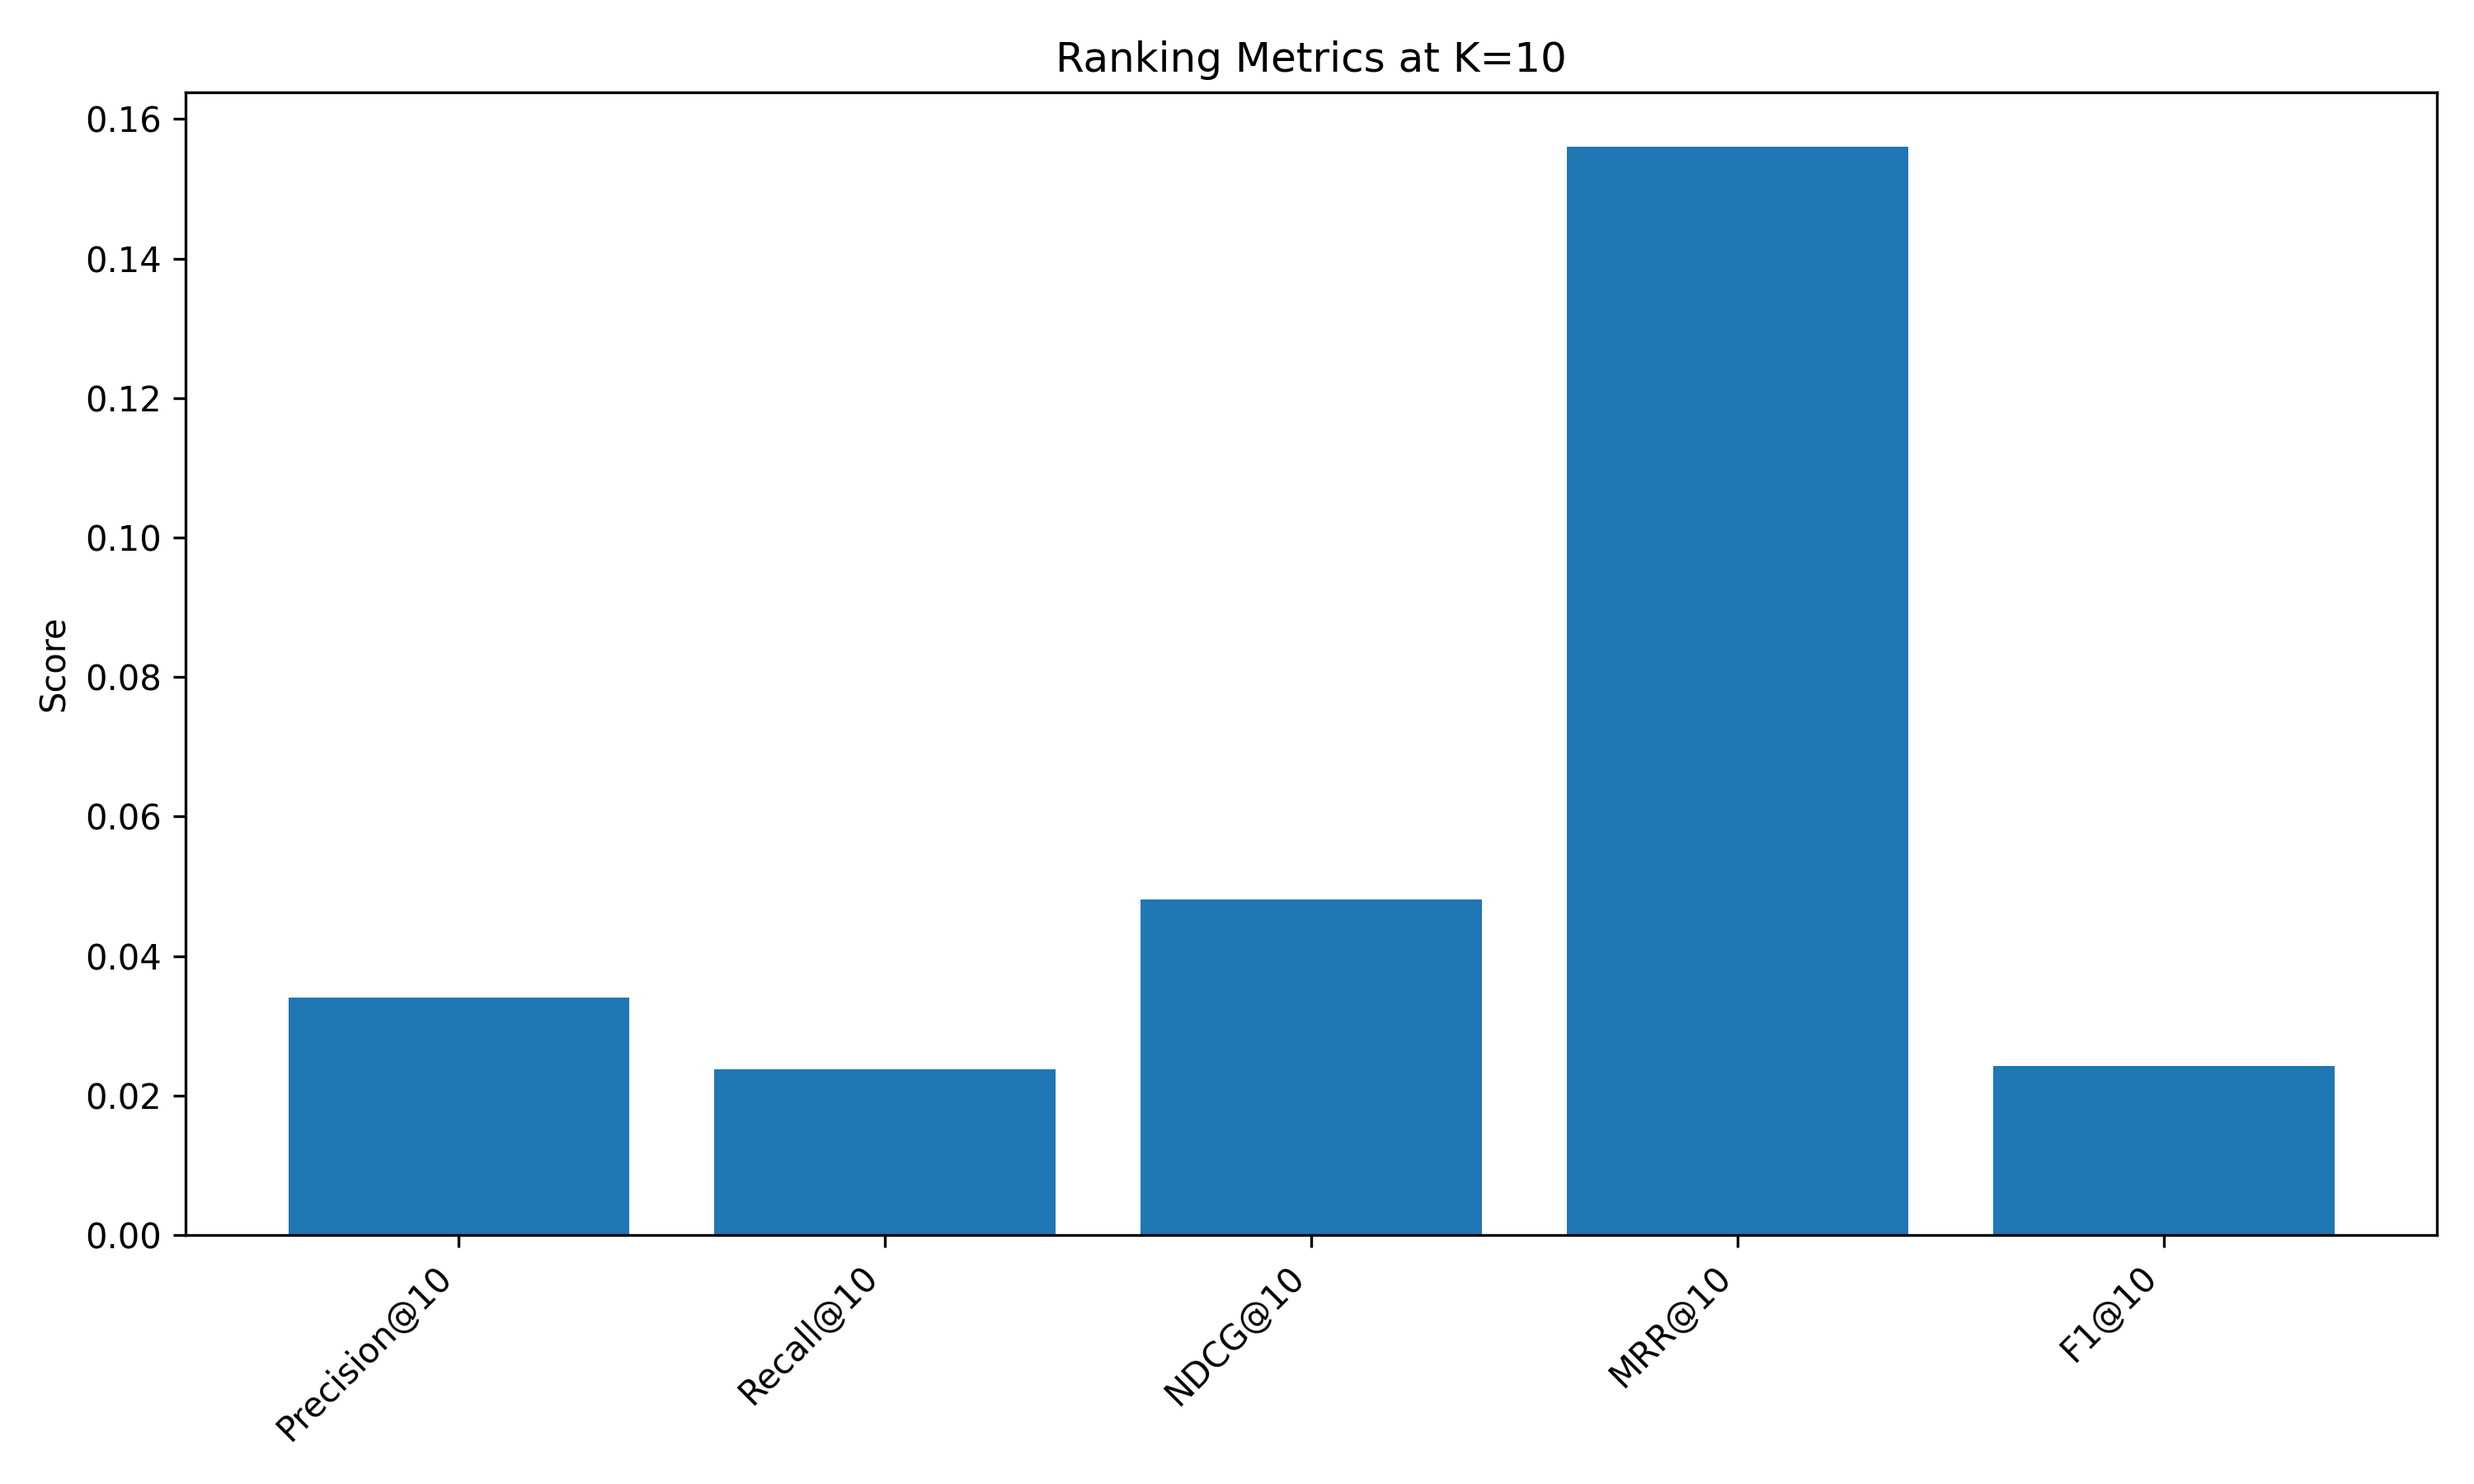
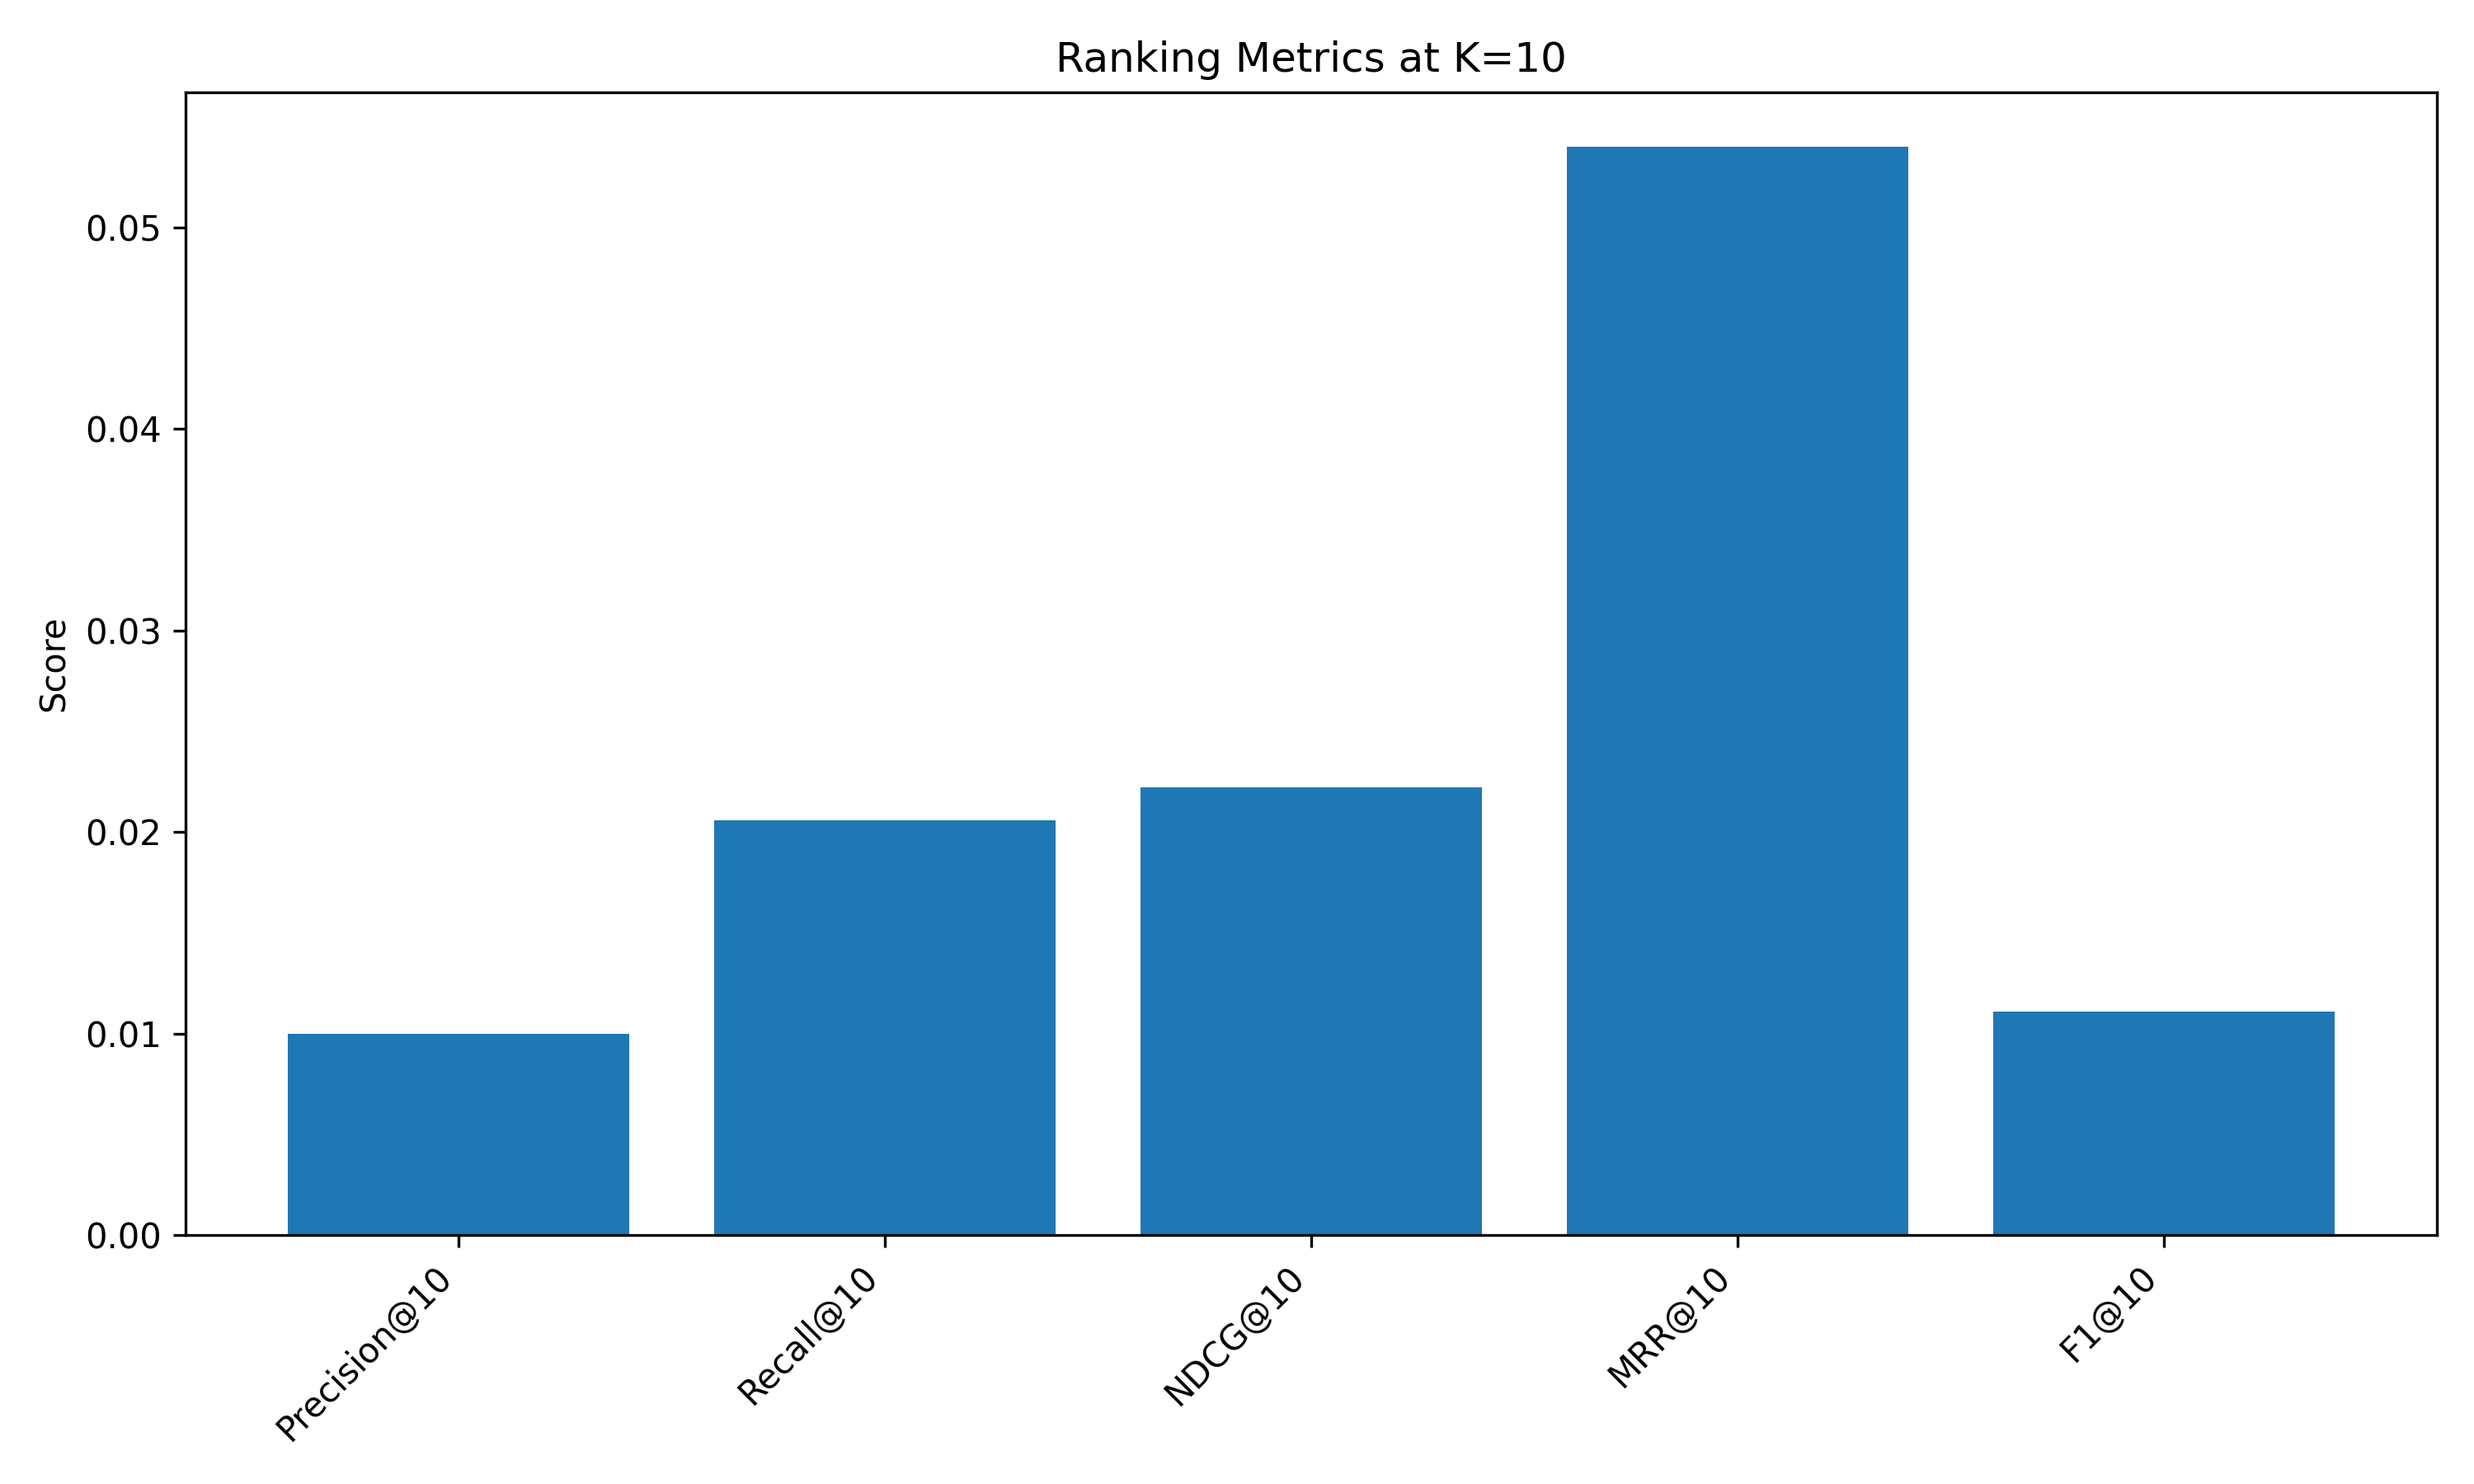
Run MovieLens 1M experiment

diff --git a/src/config.py b/src/config.py
@@ -19,39 +19,50 @@ DATASET_CONFIGS = {
         "baseline_weight": 0.30,
         "cf_weight": 0.35,
         "mf_weight": 0.35,
+        "rating_sample_size": 1000,
+        "ranking_sample_users": 50,
+        "candidate_sample_size": 300,
     },
+
     "1M": {
         "name": "MovieLens-1M",
         "data_path": str(PROJECT_ROOT / "data" / "processed" / "ratings_1m.csv"),
-        "k_neighbors": 25,
+        "k_neighbors": 20,
         "n_factors": 25,
-        "max_epochs": 15,
+        "max_epochs": 10,
         "learning_rate": 0.005,
         "reg_lambda": 0.02,
         "test_size": 0.2,
         "random_state": 42,
         "relevance_threshold": 4.0,
         "k_values": [5, 10, 20],
-        "cache_size": 200000,
+        "cache_size": 300000,
         "baseline_weight": 0.30,
-        "cf_weight": 0.35,
-        "mf_weight": 0.35,
+        "cf_weight": 0.30,
+        "mf_weight": 0.40,
+        "rating_sample_size": 2000,
+        "ranking_sample_users": 50,
+        "candidate_sample_size": 250,
     },
+
     "10M": {
         "name": "MovieLens-10M",
         "data_path": str(PROJECT_ROOT / "data" / "processed" / "ratings_10m.csv"),
-        "k_neighbors": 30,
+        "k_neighbors": 15,
         "n_factors": 25,
-        "max_epochs": 15,
+        "max_epochs": 5,
         "learning_rate": 0.005,
         "reg_lambda": 0.02,
         "test_size": 0.2,
         "random_state": 42,
         "relevance_threshold": 4.0,
         "k_values": [5, 10, 20],
-        "cache_size": 200000,
+        "cache_size": 500000,
         "baseline_weight": 0.30,
-        "cf_weight": 0.35,
-        "mf_weight": 0.35,
+        "cf_weight": 0.25,
+        "mf_weight": 0.45,
+        "rating_sample_size": 3000,
+        "ranking_sample_users": 30,
+        "candidate_sample_size": 200,
     },
 }

diff --git a/main.py b/main.py
@@ -1,3 +1,5 @@
+import argparse
+
 from src.config import DATASET_CONFIGS
 from src.data_loader import load_thesis_data
 from src.evaluation import OptimizedLightningEvaluator
@@ -6,13 +8,32 @@ from src.utils import save_experiment_results
 from src.visualization import save_experiment_charts
 
 
+def parse_args():
+    parser = argparse.ArgumentParser(
+        description="Run the hybrid CASM-CF + Matrix Factorization recommender."
+    )
+
+    parser.add_argument(
+        "--dataset",
+        type=str,
+        default="100K",
+        choices=["100K", "1M", "10M"],
+        help="Dataset version to use: 100K, 1M, or 10M.",
+    )
+
+    return parser.parse_args()
+
+
 def main():
-    config = DATASET_CONFIGS["100K"]
+    args = parse_args()
+
+    config = DATASET_CONFIGS[args.dataset]
     model_name = "Hybrid CASM-CF + Matrix Factorization"
 
     print("=" * 60)
     print("Movie Recommender System - Hybrid Thesis Portfolio Version")
     print("=" * 60)
+    print(f"Selected dataset: {config['name']}")
 
     train_df, test_df, dataset_info = load_thesis_data(config)
 
@@ -35,7 +56,7 @@ def main():
     rating_results = evaluator.rating_evaluation(
         recommender,
         test_df,
-        sample_size=1000,
+        sample_size=config["rating_sample_size"],
     )
 
     print("\nRating prediction results:")
@@ -46,7 +67,7 @@ def main():
     ranking_results = evaluator.ranking_evaluation(
         recommender,
         test_df,
-        sample_users=50,
+        sample_users=config["ranking_sample_users"],
     )
 
     print("\nRanking evaluation results:")
